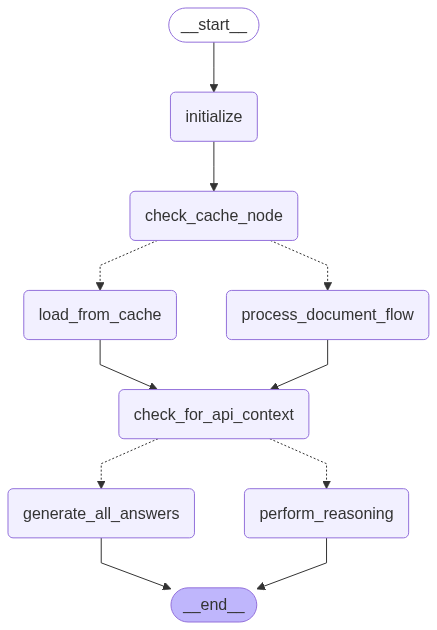
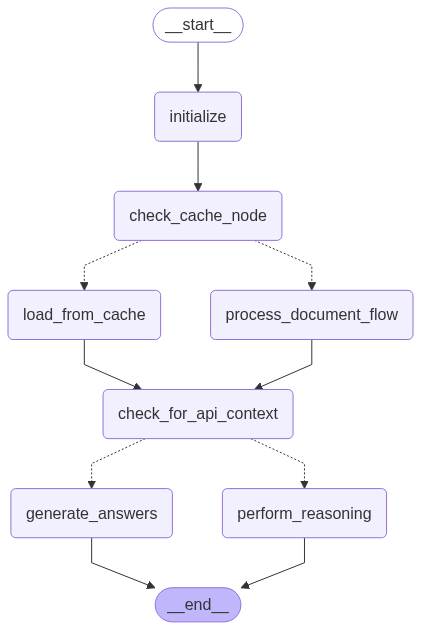
generate_all_answer renamed to generate_answers

diff --git a/graph_builder.py b/graph_builder.py
@@ -56,9 +56,9 @@ def check_for_api_context(state: AgentState) -> AgentState:
     docs = state["retriever"].invoke("Api endpoints and urls. search for http")
     return {"initial_context": "\n\n".join(d.page_content for d in docs)}
 
-def route_after_context_check(state: AgentState) -> Literal["perform_reasoning", "generate_all_answers"]:
+def route_after_context_check(state: AgentState) -> Literal["perform_reasoning", "generate_answers"]:
     """Conditional edge to decide between the ReAct agent and standard RAG."""
-    return "perform_reasoning" if contains_api_or_url(state.get("initial_context", "")) else "generate_all_answers"
+    return "perform_reasoning" if contains_api_or_url(state.get("initial_context", "")) else "generate_answers"
 
 def check_cache(state: AgentState) -> str:
     """Conditional edge to check if a cached FAISS index exists."""
@@ -98,7 +98,7 @@ def process_document(state: AgentState) -> AgentState:
     vs.save_local(state['cache_path'])
     return {"retriever": vs.as_retriever(search_type="mmr", search_kwargs={'k': 15})}
 
-async def generate_all_answers(state: AgentState) -> AgentState:
+async def generate_answers(state: AgentState) -> AgentState:
     """Node to generate answers for all questions in parallel."""
     if state.get('error_message'):
         return {"answers": ["Could not generate answers due to an earlier error."]}
@@ -133,7 +133,7 @@ workflow.add_node("load_from_cache", load_from_cache)
 workflow.add_node("check_for_api_context", check_for_api_context)
 workflow.add_node("perform_reasoning", perform_reasoning)
 workflow.add_node("process_document_flow", process_document)
-workflow.add_node("generate_all_answers", generate_all_answers)
+workflow.add_node("generate_answers", generate_answers)
 
 workflow.set_entry_point("initialize")
 workflow.add_edge("initialize", "check_cache_node")
@@ -141,14 +141,14 @@ workflow.add_edge("load_from_cache", "check_for_api_context")
 workflow.add_edge("process_document_flow", "check_for_api_context")
 workflow.add_conditional_edges("check_for_api_context", route_after_context_check, {
     "perform_reasoning": "perform_reasoning",
-    "generate_all_answers": "generate_all_answers"
+    "generate_answers": "generate_answers"
 })
 workflow.add_conditional_edges("check_cache_node", check_cache, {
     "load_from_cache": "load_from_cache",
     "process_document_flow": "process_document_flow"
 })
 workflow.add_edge("perform_reasoning", END)
-workflow.add_edge("generate_all_answers", END)
+workflow.add_edge("generate_answers", END)
 
 # Compiled graph, ready for use
 jarvis = workflow.compile()
